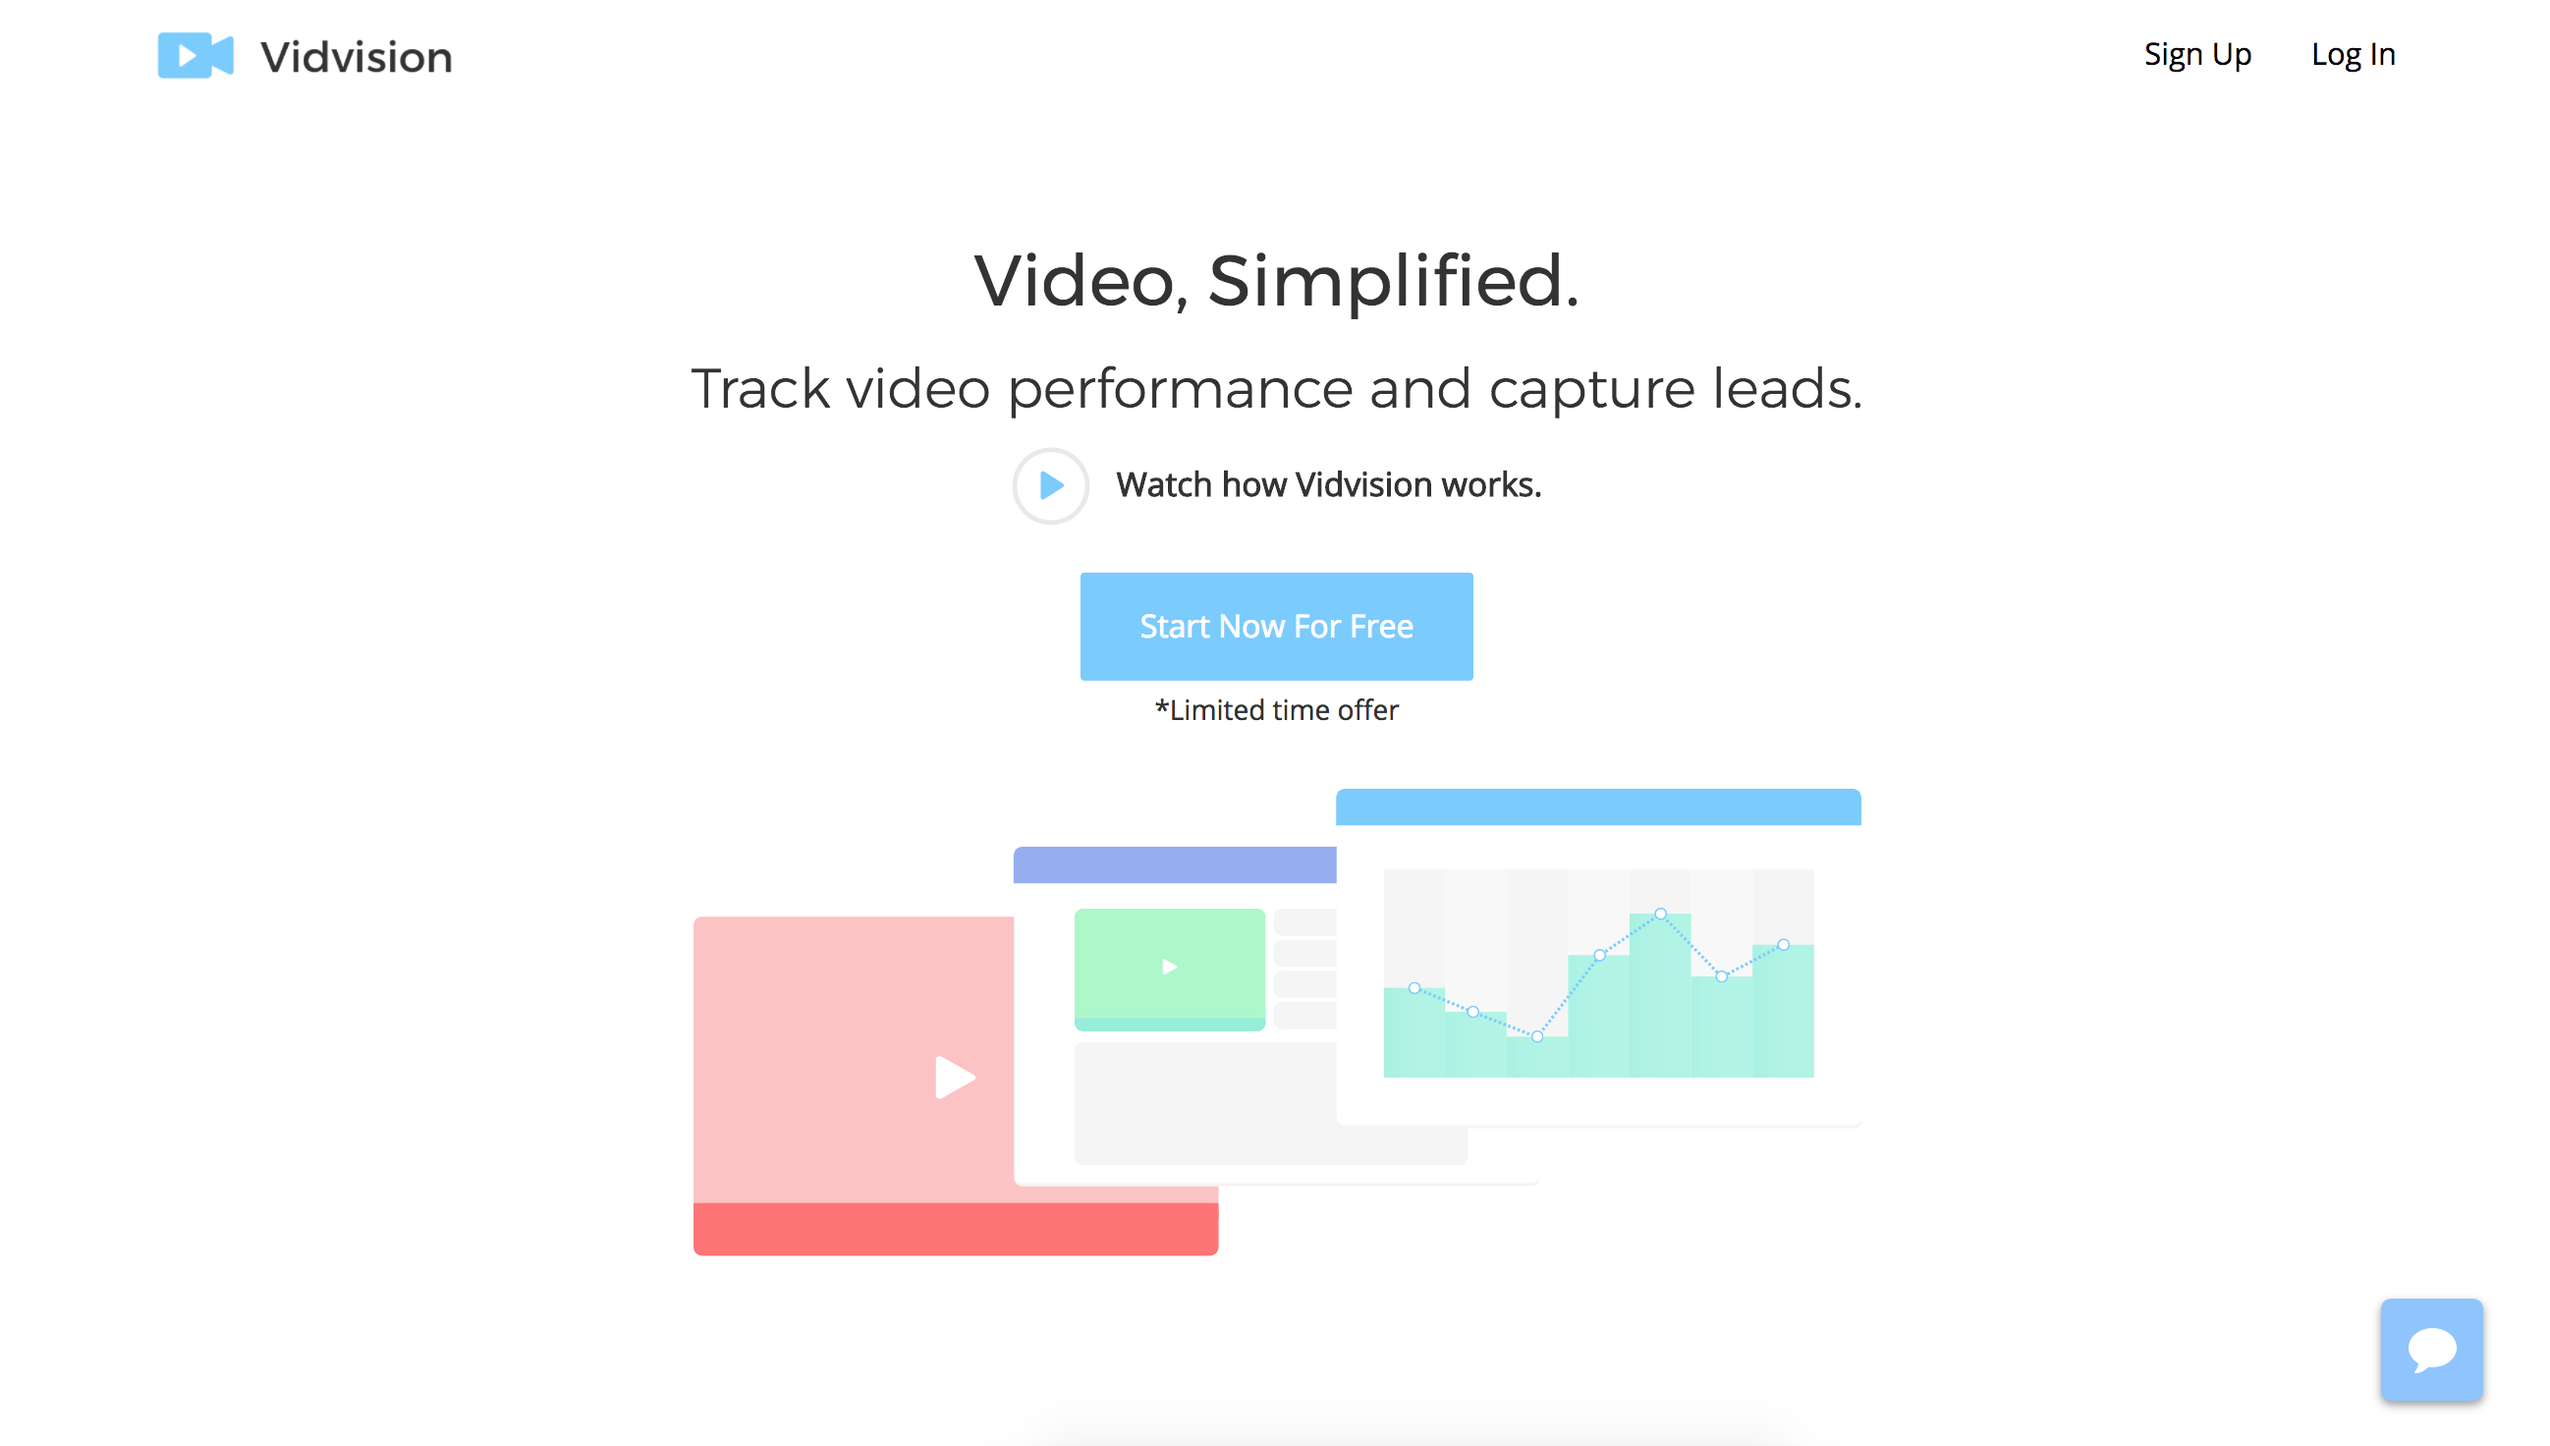
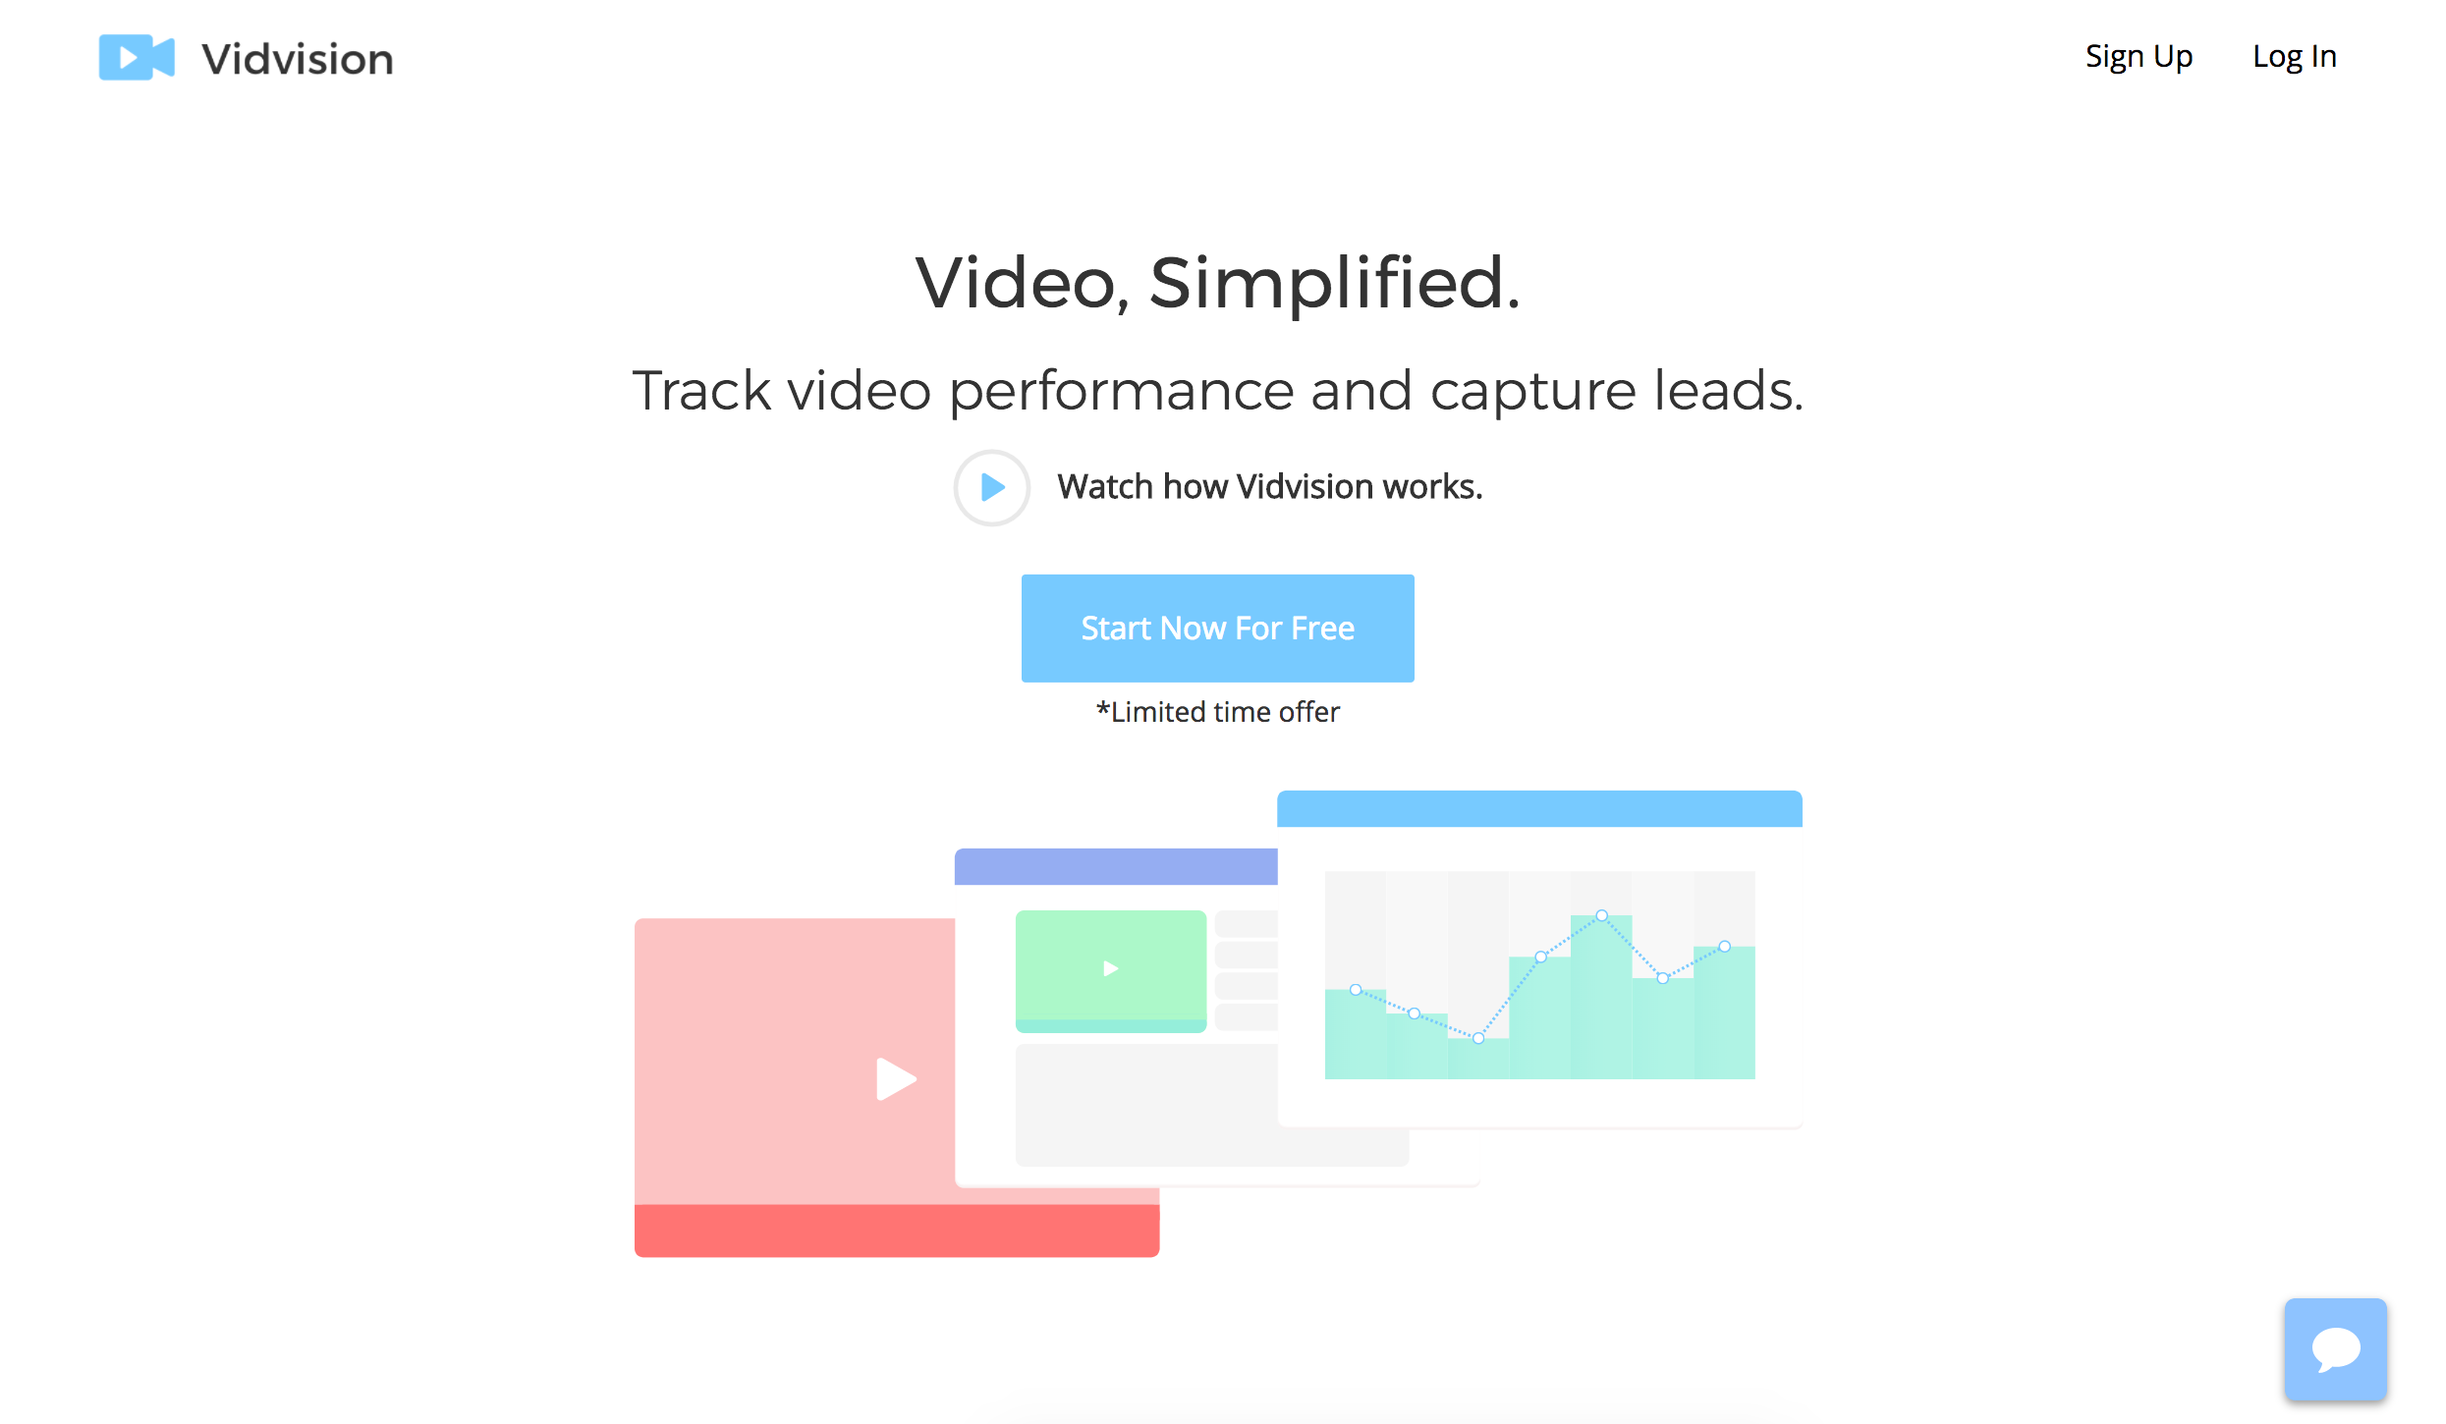
all set up

diff --git a/src/containers/Portfolio.js b/src/containers/Portfolio.js
@@ -1,25 +1,70 @@
 import React, { Component } from 'react';
 import { Layout, Row, Col } from 'antd';
+import windowSize from 'react-window-size';
+
 
 import Background from "../assets/images/background.png";
+import Vidvision from '../assets/images/vidvision.png';
+import Melillo from '../assets/images/melillo.png';
+import Pureworld from '../assets/images/pureworld.png';
 
 import Jumbotron from '../components/Jumbotron';
+import Thumbnail from '../components/Thumbnail';
 
 class Portfolio extends Component {
+  constructor(props) {
+    super(props);
+
+    this.state = { jumbotronImage: Vidvision };
+
+    this.handleSelect = this.handleSelect.bind(this);
+  }
+
+  handleSelect(title, image) {
+    this.setState({ jumbotronImage: image });
+  }
+
   render() {
     return (
+      <div>
+      <div style={{ width: '100%', height: (0.15 * this.props.windowHeight)}}></div>
       <Layout
         style={{
           minHeight: '100vh',
-          backgroundPosition: 'bottom',
-          backgroundSize: 'cover',
-          backgroundImage: `url(${Background})`
         }}
       >
-        <Jumbotron />
+        <div>
+          <img src={Background} style={{ width: '100%', position: 'relative' }} />
+        </div>
+
+          <Jumbotron
+            top={(0.15 * this.props.windowHeight) + (this.props.windowWidth / 50) }
+            left={(0.3085 * this.props.windowWidth)}
+            width={(0.359 * this.props.windowWidth)}
+            image={this.state.jumbotronImage}
+          />
+
+        <div>
+          <Thumbnail
+            title="Vidvision"
+            image={Vidvision}
+            handleSelect={this.handleSelect}
+          />
+          <Thumbnail
+            title="Melillo Equities"
+            image={Melillo}
+            handleSelect={this.handleSelect}
+          />
+          <Thumbnail
+            title="Pureworld Hemp"
+            image={Pureworld}
+            handleSelect={this.handleSelect}
+          />
+        </div>
       </Layout>
+      </div>
     )
   }
 }
 
-export default Portfolio;
+export default windowSize(Portfolio);

diff --git a/src/components/Jumbotron.js b/src/components/Jumbotron.js
@@ -1,15 +1,17 @@
 import React, { Component } from 'react';
-import { Row, Col } from 'antd';
-
-import Vidvision from '../assets/images/vidvision.png';
 
 class Jumbotron extends Component {
   render() {
     return (
       <div>
         <img
-          src={Vidvision}
-          style={{ width: '35.8vw', marginLeft: '30.9%', marginTop: 18 }}
+          src={this.props.image}
+          style={{
+            position: 'absolute',
+            width: this.props.width,
+            left: this.props.left,
+            top: this.props.top
+          }}
         />
       </div>
     )

diff --git a/src/components/Thumbnail.js b/src/components/Thumbnail.js
@@ -1,0 +1,26 @@
+import React, { Component } from 'react';
+import { Row, Col } from 'antd';
+
+class Thumbnail extends Component {
+  constructor(props) {
+    super(props);
+
+    this.handleSelect = this.handleSelect.bind(this);
+  }
+
+  handleSelect() {
+    this.props.handleSelect(this.props.title, this.props.image);
+  }
+
+  render() {
+    return (
+      <div
+        onClick={this.handleSelect}
+      >
+        <h1>{this.props.title}</h1>
+      </div>
+    )
+  }
+}
+
+export default Thumbnail;

diff --git a/src/index.css b/src/index.css
@@ -1,6 +1,6 @@
 body {
-  margin: 0;
-  padding: 0;
-  font-family: sans-serif;
-  overflow: hidden;
+  background-color: #fff;
+}
+div {
+  background-color: #fff;
 }
